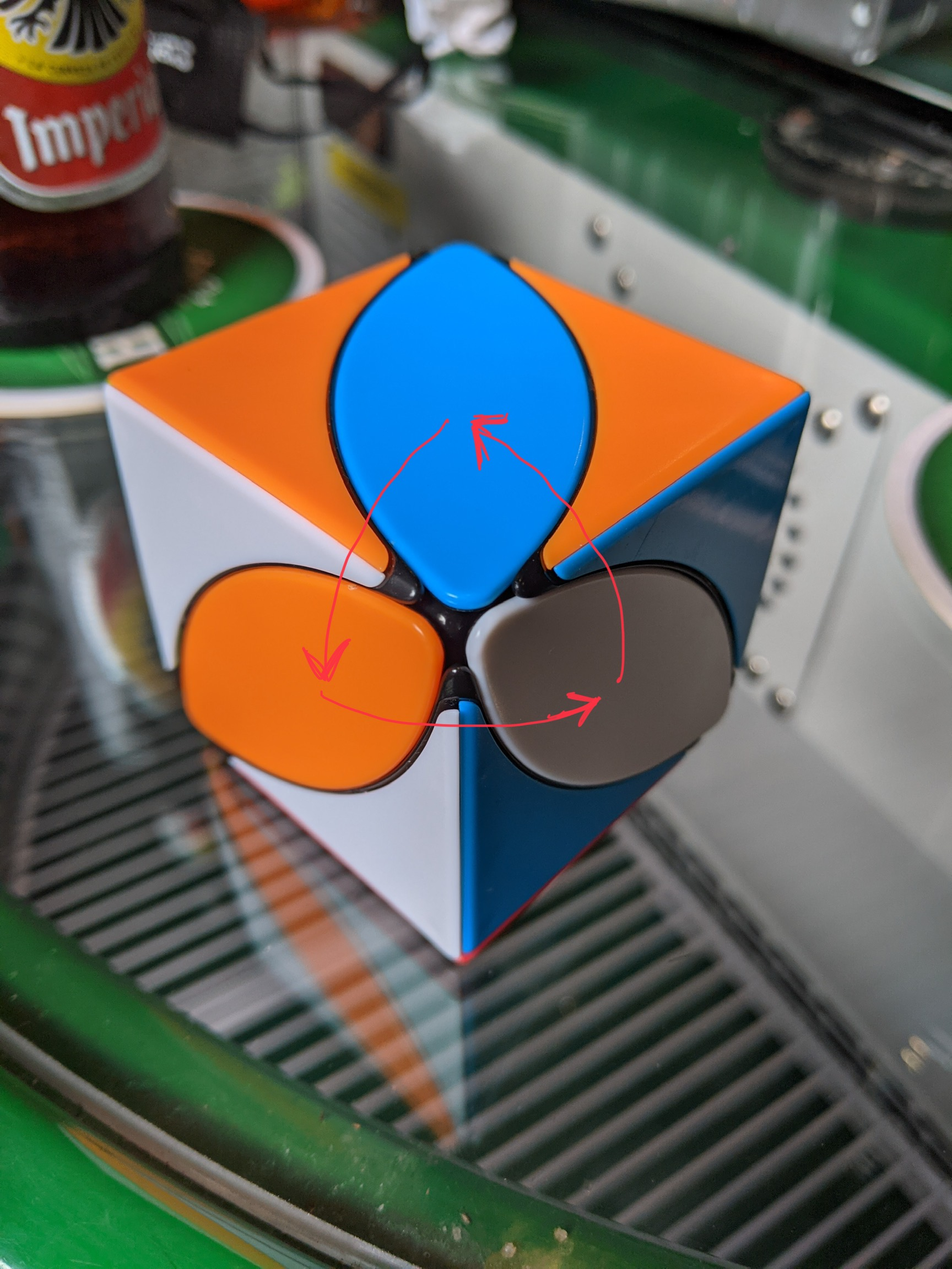
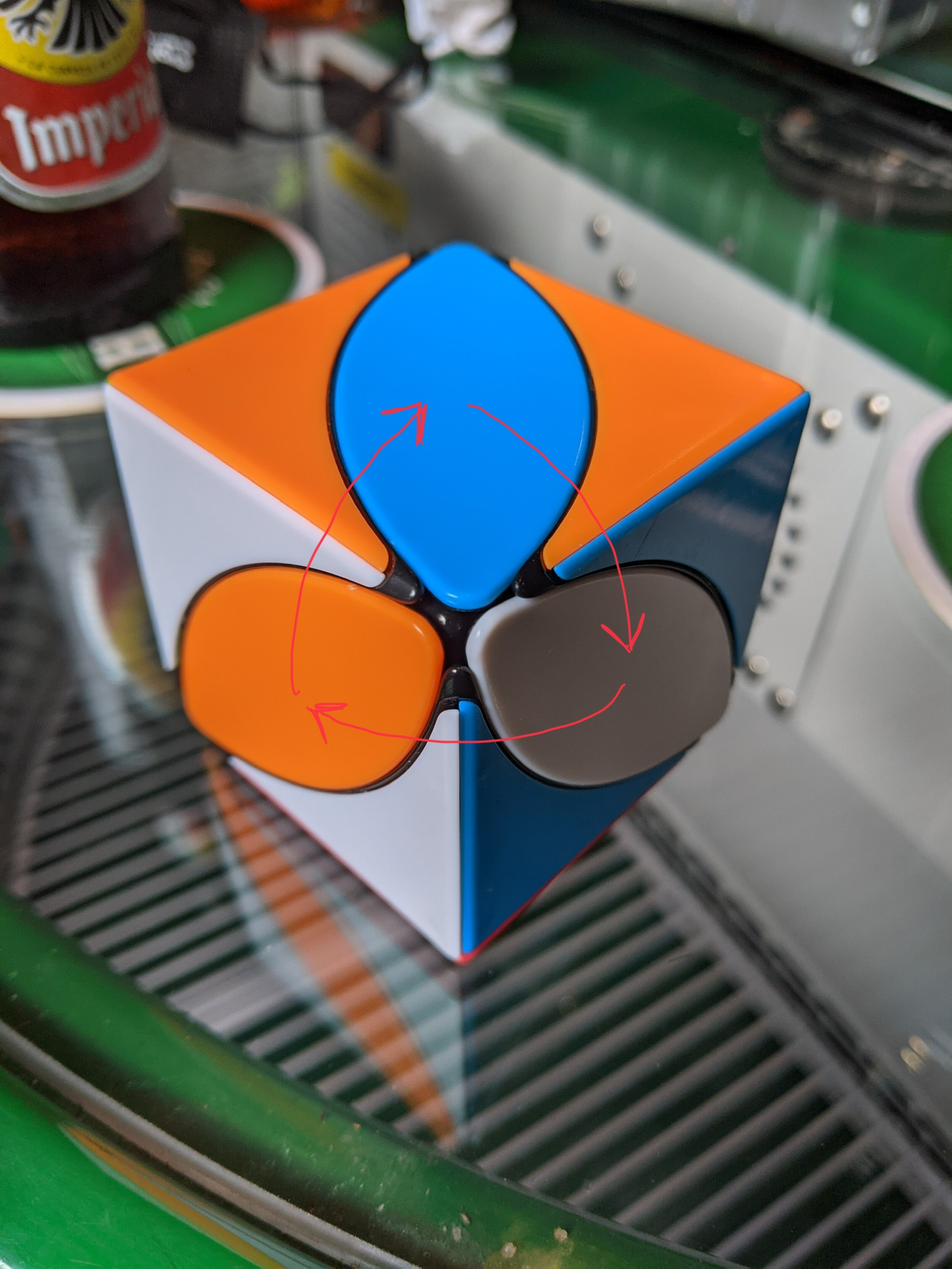
Fixed flower movement pic

Changed region(s): [[0.3438, 0.3125, 0.6875, 0.5938], [0.3125, 0.5, 0.375, 0.5938], [0.3125, 0.4375, 0.375, 0.4688]]

diff --git a/_posts/2021-1-1-ivy-cube.md b/_posts/2021-1-1-ivy-cube.md
@@ -67,7 +67,7 @@ Your setup moves might be a bit different (there is more than one way to make th
 
 ![Triangle Setup]({{ site.baseurl }}/assets/ivy-cube/triangle-post-setup.jpeg)
 
-After the setup you can do the flower swap as normal. (In this case I actually did the "reverse" version of the algorithm) It won't look solved, but after undoing the setup moves you should be done!
+After the setup you can do the flower swap as normal. It won't look solved, but after undoing the setup moves you should be done!
 ![Triangle Post Algorithm]({{ site.baseurl }}/assets/ivy-cube/triangle-post-algo.jpeg)
 
 # Done!
